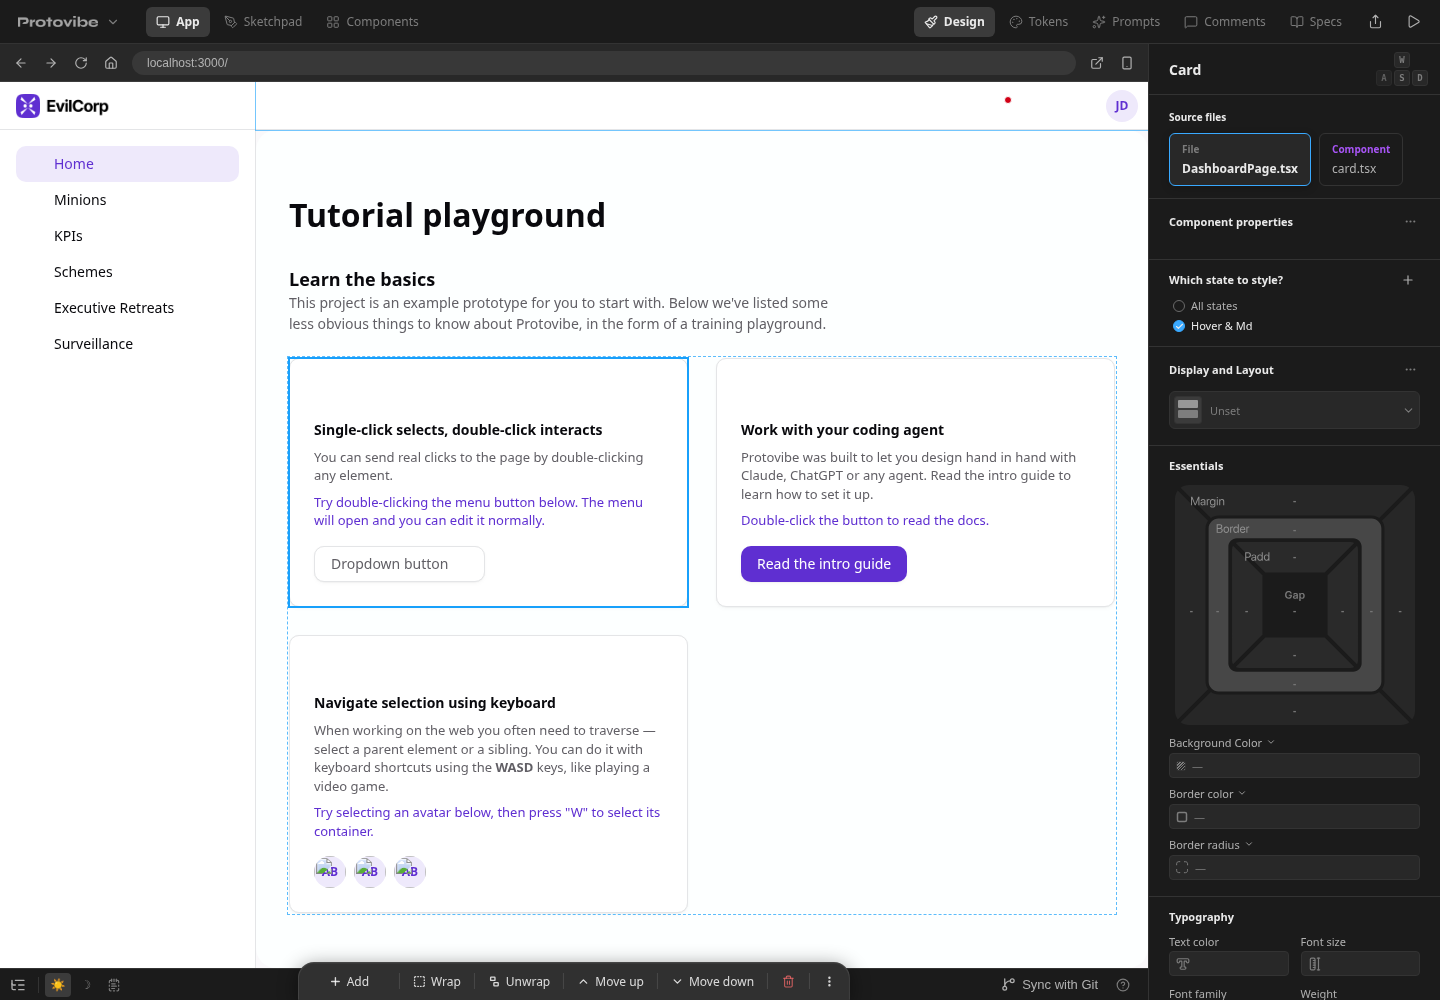
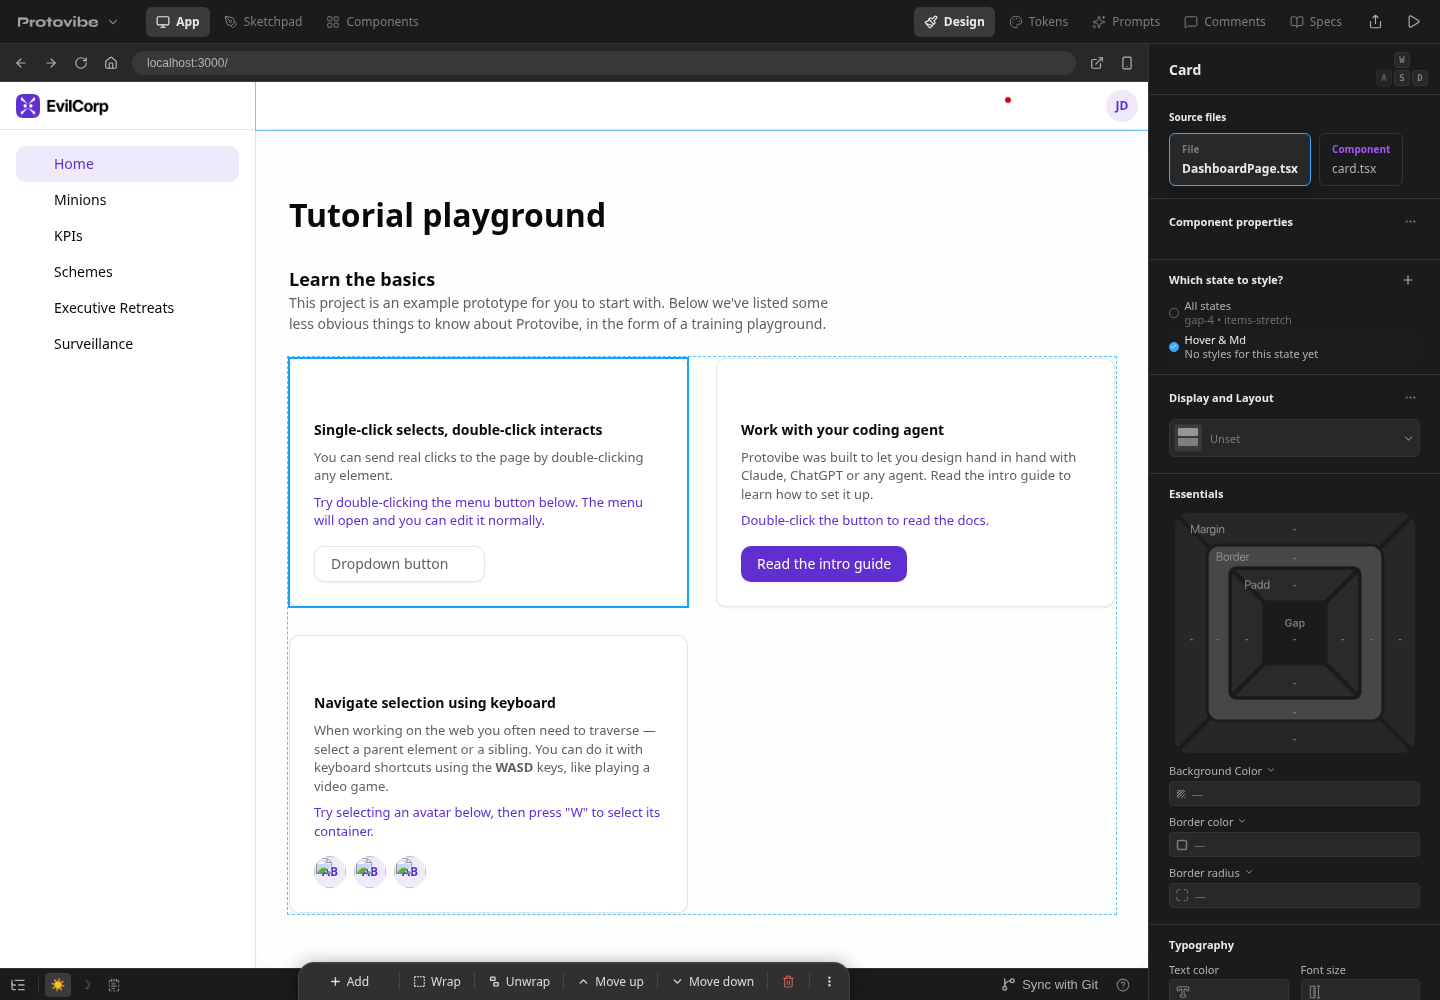
Refine state summaries and document the complete styling flow

Changed region(s): [[0.8125, 0.279, 0.9688, 0.589], [0.8125, 0.651, 0.9688, 1.0], [0.9062, 0.93, 0.9375, 1.0]]

diff --git a/protovibe-project-template/plugins/protovibe/src/ui/components/Modifiers.tsx b/protovibe-project-template/plugins/protovibe/src/ui/components/Modifiers.tsx
@@ -194,12 +194,9 @@ export const Modifiers: React.FC = () => {
 
       {/* ── Existing Modifiers List ── */}
       <div role="radiogroup" aria-label="Which state to style?" style={{ display: 'flex', flexDirection: 'column' }}>
-          {[{ modifiers: [], classes: [], count: 0 }, ...matchingGroups, ...(showMore ? otherGroups : [])].map((group) => {
+          {[{ modifiers: [], classes: flatClasses.filter(cls => parseModifiers(cls).modifiers.length === 0), count: 0 }, ...matchingGroups, ...(showMore ? otherGroups : [])].map((group) => {
             const label = group.modifiers.length ? group.modifiers.map(formatModifier).join(' & ') : 'All states';
-            const SHOW = 2;
-            const visibleClasses = group.classes.slice(0, SHOW);
-            const remaining = group.classes.length - SHOW;
-            const classesLabel = visibleClasses.join(' • ') + (remaining > 0 ? ` • +${remaining}` : '');
+            const classesLabel = group.classes.join(' • ') || 'No styles for this state yet';
             const bps = ['sm', 'md', 'lg', 'xl', '2xl'];
             const interactions = ['hover', 'active', 'focus', 'visited', 'disabled'];
 
@@ -211,6 +208,7 @@ export const Modifiers: React.FC = () => {
                 type="button"
                 role="radio"
                 aria-label={label}
+                aria-description={classesLabel}
                 aria-checked={isActive}
                 tabIndex={isActive ? 0 : -1}
                 onKeyDown={event => {
@@ -244,7 +242,7 @@ export const Modifiers: React.FC = () => {
                   alignItems: 'center',
                   background: 'transparent',
                   border: 'none',
-                  padding: '3px 4px',
+                  padding: '3px 4px 3px 0',
                   cursor: 'pointer',
                   textAlign: 'left',
                   borderRadius: '6px',
@@ -261,12 +259,12 @@ export const Modifiers: React.FC = () => {
                   (e.currentTarget.querySelector('[data-label-secondary]') as HTMLElement | null)?.style.setProperty('color', isActive ? theme.text_secondary : theme.text_low);
                 }}
               >
-                <span aria-hidden="true" style={{ display: 'flex', alignItems: 'center', justifyContent: 'center', width: '12px', height: '12px', boxSizing: 'border-box', borderRadius: '50%', border: `1px solid ${isActive ? theme.accent_default : theme.border_strong}`, background: isActive ? theme.accent_default : 'transparent', color: theme.text_default, marginRight: '6px', flexShrink: 0 }}>
-                  {isActive && <Check size={9} strokeWidth={3} />}
+                <span aria-hidden="true" style={{ display: 'flex', alignItems: 'center', justifyContent: 'center', width: '9.6px', height: '9.6px', boxSizing: 'border-box', borderRadius: '50%', border: `1px solid ${isActive ? theme.accent_default : theme.border_strong}`, background: isActive ? theme.accent_default : 'transparent', color: theme.text_default, marginRight: '6px', flexShrink: 0 }}>
+                  {isActive && <Check size={7.2} strokeWidth={3} />}
                 </span>
-                <span style={{ fontSize: '11px', color: theme.text_secondary, flex: 1, display: 'flex', flexDirection: 'column', lineHeight: '14px' }}>
+                <span style={{ fontSize: '11px', color: theme.text_secondary, flex: 1, minWidth: 0, display: 'flex', flexDirection: 'column', lineHeight: '14px' }}>
                   <span data-label-primary style={{ color: isActive ? theme.text_default : theme.text_secondary }}>{label}</span>
-                  {classesLabel && <span data-label-secondary style={{ color: isActive ? theme.text_secondary : theme.text_low, fontSize: '11px' }}>{classesLabel}</span>}
+                  <span data-label-secondary title={classesLabel} style={{ color: isActive ? theme.text_secondary : theme.text_low, fontSize: '11px', overflow: 'hidden', whiteSpace: 'nowrap', textOverflow: 'ellipsis' }}>{classesLabel}</span>
                 </span>
               </button>
             );
